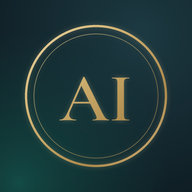
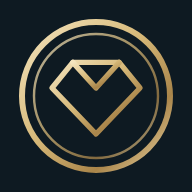
feat(ai-bijika): 初心者向けにブランド刷新とUX説明を強化
・ブランド名を「AI商品化実践システム」から「商品化デビュー」に変更し、
  ロゴも「AI」の文字からジェムのモノグラムに刷新（PWAアイコンも再生成）
・トップページの見出しを、仕組み（AIプロンプト等）先行の説明から
  「経験を商品にして、実際に売る」という結果を先に伝える書き方に変更
・ChatGPTへ移動したあと「この画面への戻り方」をプロンプト詳細画面に明記
・「1日30分・90日」はあくまで目安であり、前のめりに進めてよい旨を追記

Claude-Session: https://claude.ai/code/session_01YZTxezyk62N9t2iFsK98o8

diff --git a/ai-bijika-system/server.js b/ai-bijika-system/server.js
@@ -1,5 +1,5 @@
 'use strict';
-// AI商品化実践システム｜購入者向けWebアプリ
+// 商品化デビュー｜購入者向けWebアプリ（旧称：AI商品化実践システム）
 // - 購入者アカウント（メール+パスワード）、購入者属性に合わせた進め方、90日/GATE進捗の保存
 // - マイ商品（商品の基本情報・お客様からの代金の受け取り方）を一度登録すると、各プロンプトに自動入力される
 // - AIプロンプト実行は購入者自身のAPIキーを都度受け取って中継するのみ。
@@ -158,9 +158,9 @@ function homePage() {
       ${guilloche(420, 560, { lines: 22 })}
       <div class="hero-in">
         ${crest(60)}
-        <div class="eyebrow">The 90-Day Program</div>
-        <h1>あなたの経験を、<br><em>ひとつの商品</em>に。</h1>
-        <p>AIプロンプトと10のGATEで、商品選びから販売・改善までを順番に進めるための専用アプリです。</p>
+        <div class="eyebrow">Your First Product, 90 Days</div>
+        <h1>あなたの経験を、<br><em>売れる商品</em>に。</h1>
+        <p>経験を商品にして、実際に売る。10のGATEに沿って一つずつ進むだけで、90日後にはそれができるようになっています。AIは、その道のりを助ける相棒です。</p>
         <div class="btn-row" style="margin-top:24px">
           <a class="btn btn-gold" href="/signup">はじめる</a>
           <a class="btn btn-outline-light" href="/login">ログイン</a>
@@ -173,6 +173,7 @@ function homePage() {
     </section>
     <section>
       <h2><span class="sec-no">02</span>90日の道のり</h2>
+      <p class="muted" style="margin:0 0 14px">1日30分を目安にしたペースです。まとまった時間を取れる方は、前のめりにどんどん進めてもらって構いません。</p>
       <div class="card"><ol class="journey">${journey}</ol></div>
     </section>
     <section class="cta-card lux">
@@ -184,7 +185,7 @@ function homePage() {
         <a class="btn btn-quiet btn-block" style="color:rgba(246,239,224,.72);margin-top:4px" href="/login">アカウントをお持ちの方はログイン</a>
       </div>
     </section>
-    <footer class="foot">${crest(30)}<div class="fname">AI商品化実践システム</div><div class="ftag">The 90-Day Program</div>
+    <footer class="foot">${crest(30)}<div class="fname">商品化デビュー</div><div class="ftag">Your First Product, 90 Days</div>
       <div style="margin-top:10px"><a href="/contact">お問い合わせ</a></div></footer>
   `);
 }
@@ -500,6 +501,7 @@ function promptDetailPage(user, p) {
       <div id="missMsg" class="miss"></div>
       <p class="hint">上の項目を変更すると、この欄は作り直されます。細かい修正は最後にこの欄で行ってください。</p>
       <div class="notice info" style="margin-top:10px">${icon('external', 16)}<div>「ChatGPTで開く」を押すと、このプロンプトは自動でコピーされます。スマホにChatGPTアプリが入っているとアプリが開き、入力欄が空のことがあります。そのときは入力欄を長押しして「ペースト」を押すだけでOKです（打ち込む必要はありません）。</div></div>
+      <div class="notice info" style="margin-top:10px">${icon('flag', 16)}<div><b>この画面への戻り方</b>：ChatGPTでのやり取りが終わったら、開いた画面の右上（または左上）にある「×」や「完了」をタップして閉じてください。それだけでこの画面に戻ってきます（戻ってくると、次にやることを自動でお知らせします）。閉じるボタンが見当たらないときは、スマホの画面を下から上へスワイプして開く「アプリの切り替え」から、このアプリに戻ってください。</div></div>
       <div class="notice gold" style="margin-top:10px">${icon('bulb', 16)}<div>回答が一般的・浅いと感じたら、そのまま使わずに「もっと具体的に」「私の経験をもっと反映して」のように聞き返してください。それだけで内容の質が大きく変わります。</div></div>
       ${p.note && p.note !== '―' ? `<div class="notice warn" style="margin-top:10px">${icon('flag', 16)}<div>注意：${escapeHtml(p.note)}</div></div>` : ''}
     </div>
@@ -834,7 +836,7 @@ function accountPage(user) {
 // ── お問い合わせ管理（運営者用。購入者アカウントとは別のシンプルなパスワード認証）──
 function adminLoginPage(error) {
   return `<!doctype html><html lang="ja"><head><meta charset="utf-8"><meta name="viewport" content="width=device-width,initial-scale=1">
-<title>管理者ログイン｜AI商品化実践システム</title>
+<title>管理者ログイン｜商品化デビュー</title>
 <style>
 body{margin:0;min-height:100vh;display:flex;align-items:center;justify-content:center;background:#0E1A22;color:#F3EEE4;font-family:-apple-system,BlinkMacSystemFont,"Hiragino Sans",sans-serif}
 form{width:min(340px,86vw);background:#152530;padding:30px 26px;border-radius:18px;box-shadow:0 20px 44px -18px rgba(0,0,0,.6)}
@@ -868,7 +870,7 @@ function adminInquiriesPage(list) {
       </form>
     </div>`).join('') || '<p class="empty">お問い合わせはまだありません。</p>';
   return `<!doctype html><html lang="ja"><head><meta charset="utf-8"><meta name="viewport" content="width=device-width,initial-scale=1">
-<title>お問い合わせ管理｜AI商品化実践システム</title>
+<title>お問い合わせ管理｜商品化デビュー</title>
 <style>
 body{margin:0;background:#F5F1EA;color:#0E1A22;font-family:-apple-system,BlinkMacSystemFont,"Hiragino Sans",sans-serif}
 header{display:flex;align-items:center;justify-content:space-between;padding:18px 20px;background:#0E1A22;color:#F3EEE4}
@@ -1076,7 +1078,7 @@ const server = http.createServer(async (req, res) => {
 });
 
 if (require.main === module) {
-  server.listen(PORT, () => console.log(`AI商品化実践システム: http://localhost:${PORT}`));
+  server.listen(PORT, () => console.log(`商品化デビュー: http://localhost:${PORT}`));
 }
 
 module.exports = server;

diff --git a/ai-bijika-system/lib/ui.js b/ai-bijika-system/lib/ui.js
@@ -42,7 +42,7 @@ function icon(name, size = 20, extraClass = '') {
   return `<svg class="ico ${extraClass}" width="${size}" height="${size}" viewBox="0 0 24 24" fill="none" stroke="currentColor" stroke-width="1.7" stroke-linecap="round" stroke-linejoin="round" aria-hidden="true">${ICON_PATHS[name] || ''}</svg>`;
 }
 
-// ブランドの紋章（金の二重リングにAIのモノグラム）
+// ブランドの紋章（金の二重リングに、経験が磨かれ商品になることを表すジェムのモノグラム）
 let crestSeq = 0;
 function crest(size = 34) {
   const id = `cr${++crestSeq % 100000}`;
@@ -50,7 +50,12 @@ function crest(size = 34) {
   <defs><linearGradient id="${id}" x1="0" y1="0" x2="1" y2="1"><stop offset="0" stop-color="#F4E5BF"/><stop offset=".45" stop-color="#D6B878"/><stop offset=".75" stop-color="#A9854A"/><stop offset="1" stop-color="#E9D4A4"/></linearGradient></defs>
   <circle cx="24" cy="24" r="22.8" fill="#0E1A22" stroke="url(#${id})" stroke-width="1.4"/>
   <circle cx="24" cy="24" r="19.4" fill="none" stroke="url(#${id})" stroke-width=".55" opacity=".75"/>
-  <text x="24" y="30.6" text-anchor="middle" font-family="Cormorant Garamond, Shippori Mincho B1, serif" font-weight="600" font-size="19.5" letter-spacing=".6" fill="url(#${id})">AI</text>
+  <g stroke="url(#${id})" stroke-width="1.1" stroke-linejoin="round" stroke-linecap="round" fill="none">
+    <path d="M18,16 L30,16 L36,23 L24,35 L12,23 Z"/>
+    <path d="M12,23 L36,23"/>
+    <path d="M18,16 L24,23 L30,16"/>
+    <path d="M24,23 L24,35"/>
+  </g>
 </svg>`;
 }
 
@@ -497,14 +502,14 @@ function layout(title, bodyHtml, { user, active, noNav } = {}) {
   const tab = (href, key, ic, label) => `<a href="${href}" class="${active === key ? 'active' : ''}">${icon(ic, 22)}<span>${label}</span></a>`;
   return `<!doctype html><html lang="ja"><head><meta charset="utf-8">
 <meta name="viewport" content="width=device-width,initial-scale=1,viewport-fit=cover">
-<title>${escapeHtml(title)}｜AI商品化実践システム</title>
+<title>${escapeHtml(title)}｜商品化デビュー</title>
 <link rel="manifest" href="/manifest.json">
 <link rel="icon" href="/icon-192.png"><link rel="apple-touch-icon" href="/icon-192.png">
 <meta name="theme-color" content="#0E1A22">
 <meta name="mobile-web-app-capable" content="yes">
 <meta name="apple-mobile-web-app-capable" content="yes">
 <meta name="apple-mobile-web-app-status-bar-style" content="black-translucent">
-<meta name="apple-mobile-web-app-title" content="AI商品化">
+<meta name="apple-mobile-web-app-title" content="商品化デビュー">
 <link rel="preconnect" href="https://fonts.googleapis.com"><link rel="preconnect" href="https://fonts.gstatic.com" crossorigin>
 <link rel="stylesheet" href="${FONT_CSS}">
 <style>${CSS}</style>
@@ -519,7 +524,7 @@ window.toast = function (msg) {
 };
 </script>
 </head><body class="${showNav ? '' : 'no-nav'}">
-<header class="topbar"><a class="brand" href="${user ? '/dashboard' : '/'}">${crest(34)}<span class="brand-name">AI商品化実践システム<small>The 90-Day Program</small></span></a>
+<header class="topbar"><a class="brand" href="${user ? '/dashboard' : '/'}">${crest(34)}<span class="brand-name">商品化デビュー<small>Your First Product, 90 Days</small></span></a>
 ${user ? `<a class="avatar" href="/account" aria-label="アカウント">${escapeHtml(initial(user.email))}</a>` : ''}</header>
 <main>${bodyHtml}</main>
 ${showNav ? `<nav class="tabbar">

diff --git a/ai-bijika-system/seeds/gates.js b/ai-bijika-system/seeds/gates.js
@@ -1,5 +1,5 @@
 'use strict';
-// GATE1〜10 の定義（AI商品化実践システム本編と一致させる）
+// GATE1〜10 の定義（商品化デビュー本編と一致させる）
 // usePrompt: GATE判定に使うレビュー（本編の表記のまま）
 // steps: そのGATEで使う順番のプロンプト番号（各プロンプトの「使うタイミング」に基づく）
 // extra: 必要な人だけ使うプロンプト / external: アプリ未収録の参考資料

diff --git a/ai-bijika-system/public/sw.js b/ai-bijika-system/public/sw.js
@@ -1,6 +1,6 @@
 // 最小限のService Worker。静的アセットのみキャッシュし、
 // ダッシュボード等の動的ページは常にネットワークから取得する（進捗の古い表示を防ぐ）。
-const CACHE = 'ai-bijika-static-v3';
+const CACHE = 'ai-bijika-static-v4';
 const STATIC_ASSETS = ['/manifest.json', '/icon-192.png', '/icon-512.png'];
 
 self.addEventListener('install', (event) => {

diff --git a/ai-bijika-system/db.js b/ai-bijika-system/db.js
@@ -1,5 +1,5 @@
 'use strict';
-// AI商品化実践システム DB（node:sqlite）
+// 商品化デビュー DB（node:sqlite）
 // 買い切りの購入者向けアプリ。AI利用料は購入者自身のAPIキーで負担する方針のため、
 // APIキーは一切このDBに保存しない（lib/aiproxy.js を参照）。
 const { DatabaseSync } = require('node:sqlite');

diff --git a/ai-bijika-system/README.md b/ai-bijika-system/README.md
@@ -1,11 +1,12 @@
 # ai-bijika-system
 
-「AI商品化実践システム」購入者向けWebアプリ（MVP・依存ゼロ）。
+購入者向けWebアプリ「**商品化デビュー**」（MVP・依存ゼロ）。リポジトリのディレクトリ名・Fly.ioアプリ名（`sq-ai-bijika`）は
+開発時のコードネームのまま残しているが、アプリ自体の表示名・ロゴは「商品化デビュー」に統一している。
 
 ## これは何か
 
-これまで docx/xlsx の束として提供していた「AI商品化実践システム」（90日間・GATE1〜10・AIプロンプト29本）を、
-購入者がブラウザだけで進捗管理とプロンプト実行までできるWebアプリにした最初のバージョンです。
+これまで docx/xlsx の束として提供していた講座（90日間・GATE1〜10・AIプロンプト31本）を、
+購入者がブラウザだけで進捗管理とプロンプト実行までできるWebアプリ「商品化デビュー」にした最初のバージョンです。
 
 ## 設計方針
 
@@ -42,10 +43,14 @@ npm start          # --experimental-sqlite --env-file=.env
 - DAY1〜90チェックリスト、ChatGPTで開く（押した時点でプロンプトを自動コピー。スマホのChatGPTアプリはURLからの自動入力に対応していないため、貼り付けで渡せるようにしている）／コピー、購入者のAPIキーでの実行（キーは保存しない）、PWA
 - お問い合わせページ・フォーム（`/contact`。ログイン前後どちらからでも送信可能。フッターとアカウント画面からリンク）。送信内容はDBに保存され、`/admin/inquiries`（`ADMIN_PASSWORD`によるパスワード認証。購入者ログインとは別系統）で確認・対応済み管理ができる
 - ChatGPTの回答品質のブレ対策：件数・除外条件が明確なプロンプト（No.2・4・15・20・23・25）とGATE判定系のプロンプト（No.5・9・12・13・18・21・27・30）には、出力前に自己チェックさせる一文を追加。あわせてプロンプト詳細画面に「回答が浅いと感じたら聞き返す」ヒントを常時表示し、無料版モデルや一問一答で終わらせた場合の質のばらつきを抑えている
+- 初心者向けの導線強化：
+  - ブランドを「AI商品化実践システム」から**「商品化デビュー」**に刷新（ロゴも「AI」の文字から、経験が磨かれ商品になることを表すジェムのモノグラムに変更。`lib/ui.js`の`crest()`とPWAアイコンに反映）。トップページの見出しも「AIプロンプトと10のGATEで〜」という仕組み先行の説明から、「経験を商品にして、実際に売る」という結果を先に伝える書き方に変更
+  - ChatGPTへ移動したあと**「この画面への戻り方」**をプロンプト詳細画面に明記（開いた画面の「×」や「完了」をタップして閉じれば戻れること、閉じるボタンが見当たらない場合はアプリ切り替えを使うことを具体的に案内）
+  - 「1日30分・90日で完成」はあくまで目安であり、まとまった時間を取れる人は前のめりに進めてよい旨をトップページに明記
 
 デザイン：「Midnight & Champagne」（深い紺・シャンパンゴールド・アイボリー）。見出しは Shippori Mincho B1、英字・数字は Cormorant Garamond を
 Google Fonts から読み込む（リポジトリ内の他ページと同じ方式。npm依存は増やしていない）。デザイントークン・共通レイアウト・アイコン・紋章・地紋は `lib/ui.js` に集約。
-画面の見た目は `下書き/アプリイメージ/` の画面遷移図とBefore/After比較を参照。
+画面の見た目は `下書き/アプリイメージ/` の画面遷移図とBefore/After比較を参照（ブランド刷新前のもの。最新の見た目は本番またはローカル起動で確認）。
 
 `seeds/prompts.js` はマスタデータで、起動のたびにDBへ同期される（本文を直せば本番にも反映される）。
 
